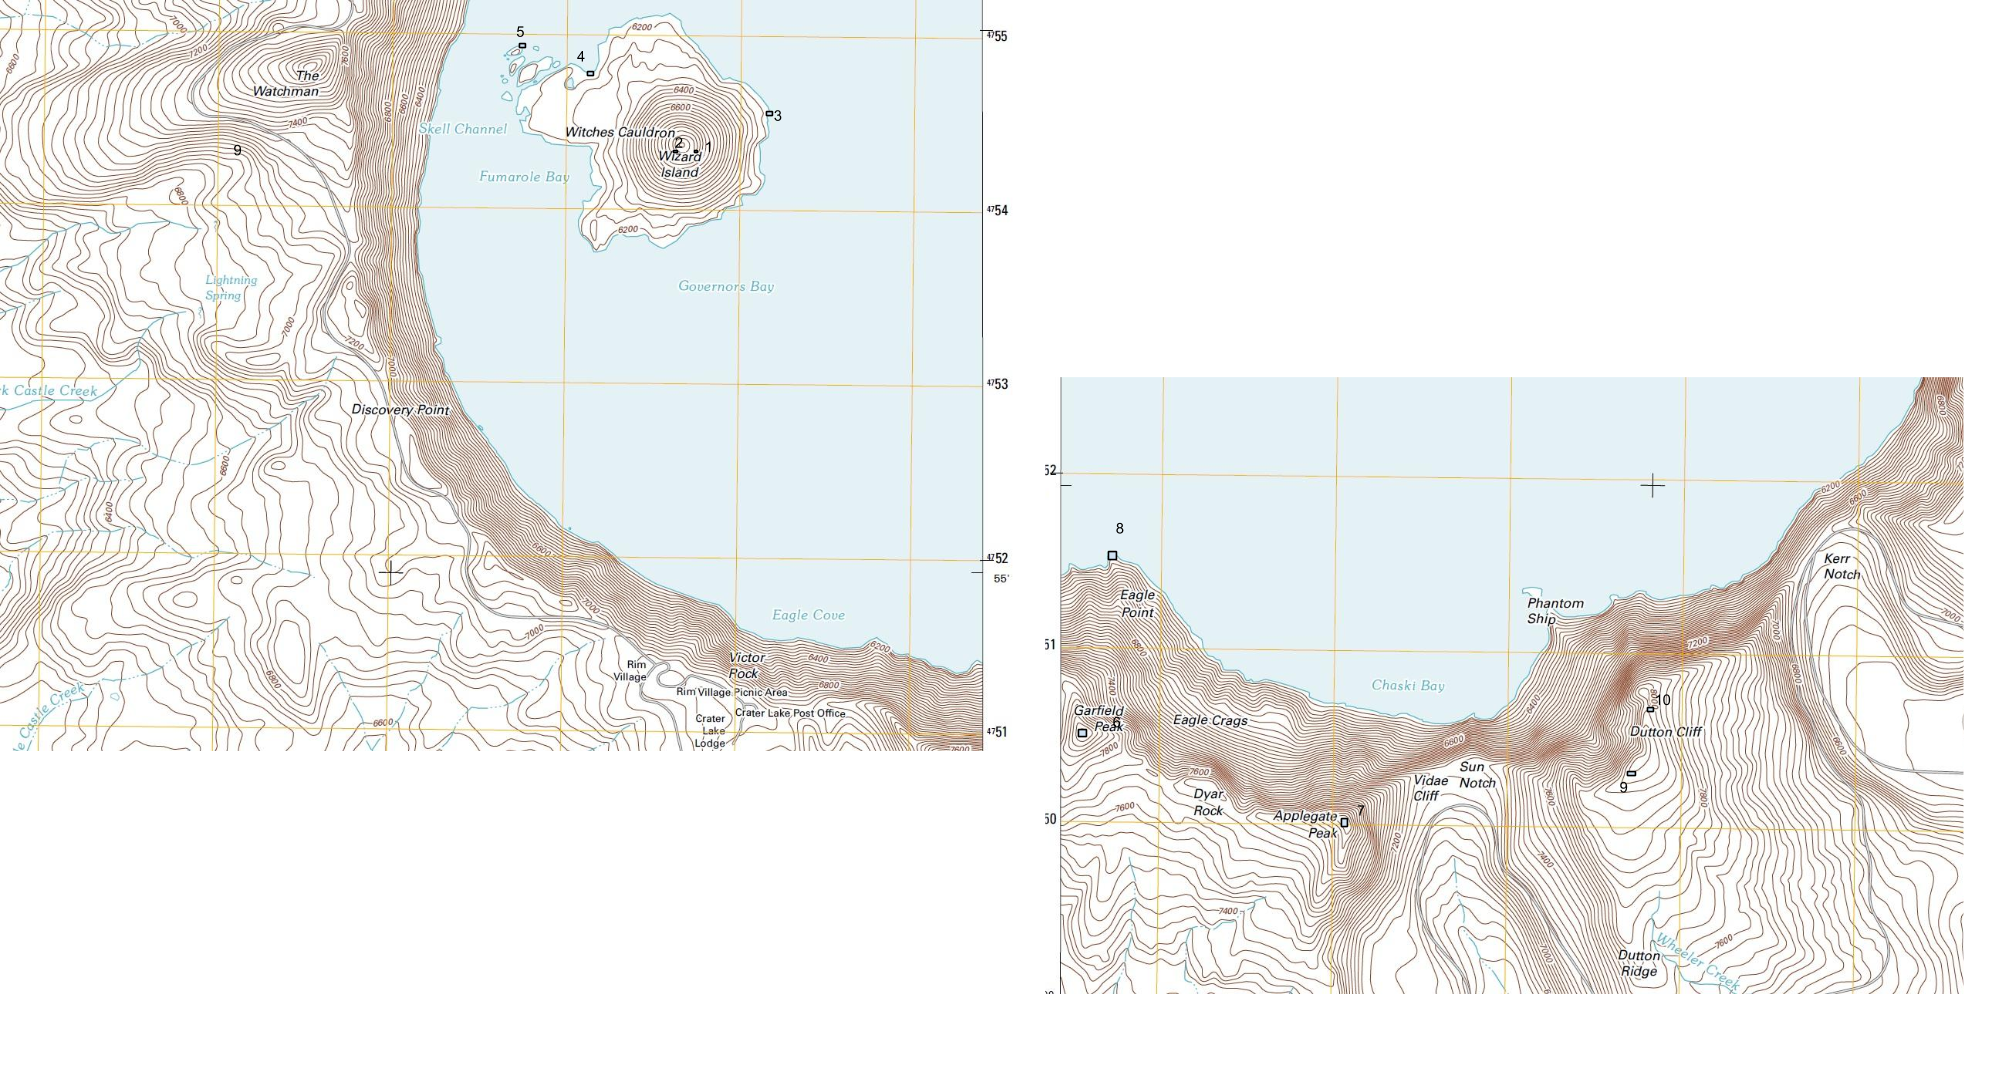
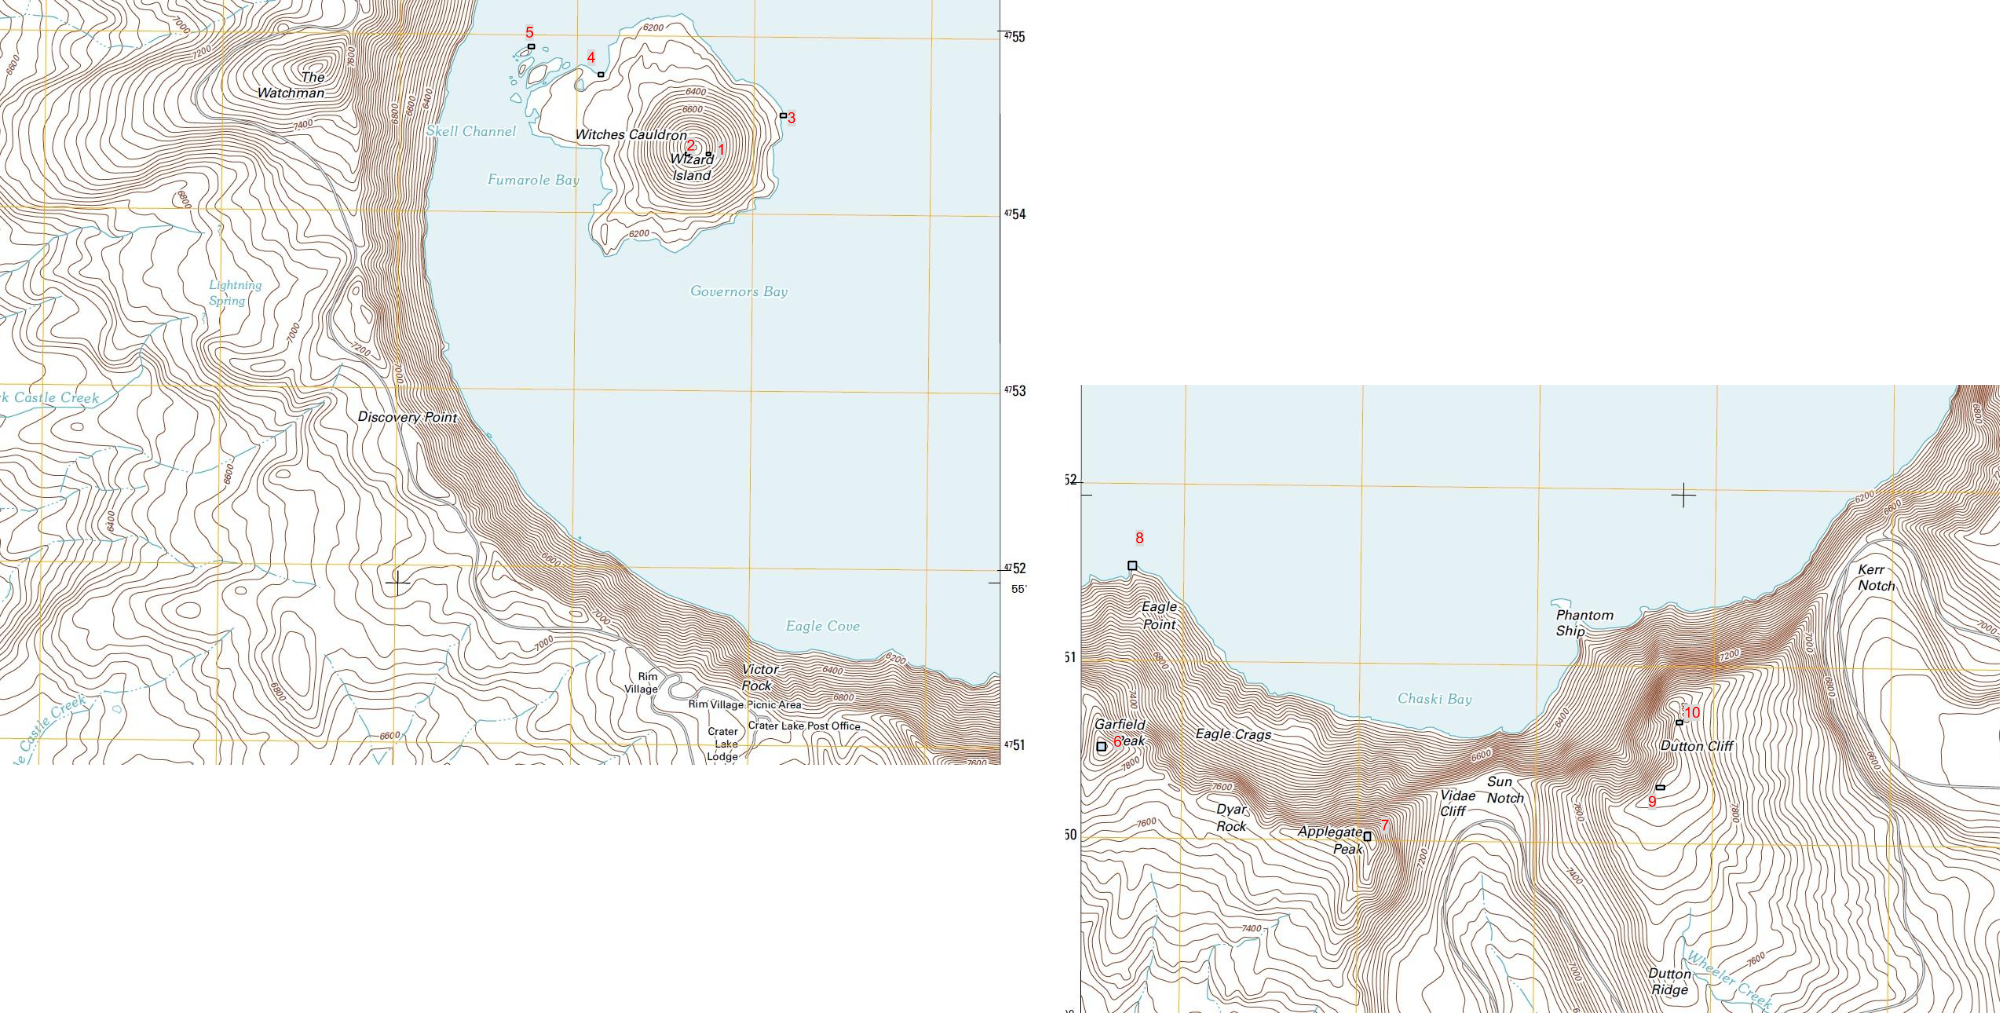
work done

diff --git a/FinalProject/finalProjectWriteUp.tex b/FinalProject/finalProjectWriteUp.tex
@@ -92,6 +92,15 @@ After looking at multiple high definition videos of Crater Lake, there were two 
 
 The shots taken from Merriam Point had some distinguishable landmarks. There is existing spatial data on these landmarks thus I attempted to do calibration with the 3D data. 
 
+\subsection{3D Points}
+
+The points I focused on were various peaks as well as recognizable points on the surface of the lake. These points could easily be spotted in a topographic map. Here is the left camera shot marked with the points used:
+\begin{figure}[H]
+\centering
+\includegraphics[width=\columnwidth]{sfmResults1/Photo_withPoints.png}
+\caption{Wizard Island Scene, further shot}
+\end{figure}
+
 \newpage
 
 \section{Reconstruction of Wizard Island Scene}
